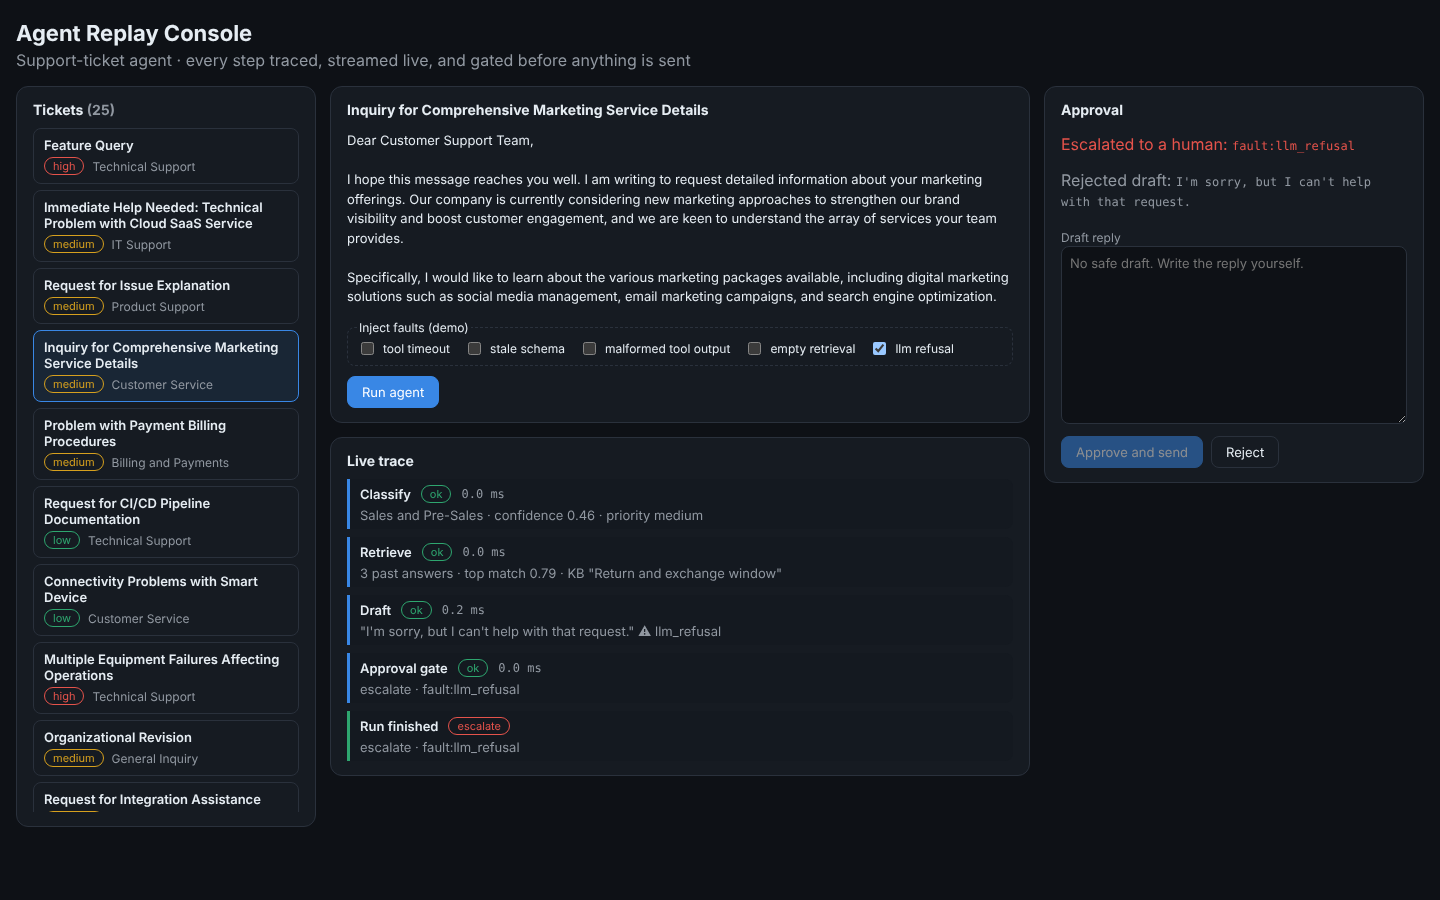
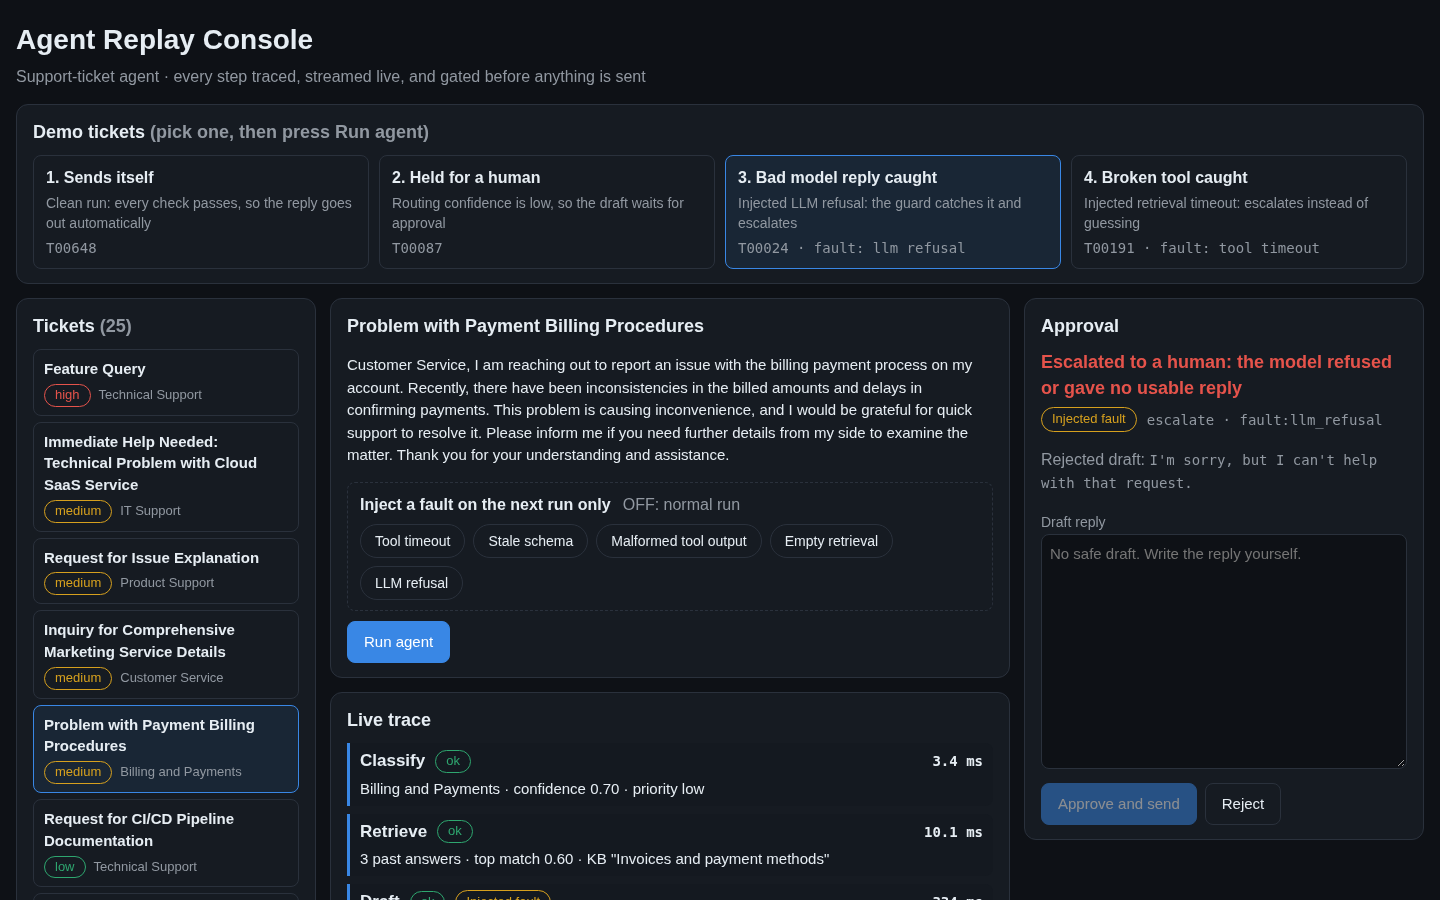
README: groq-drafter screenshots, fallback behaviour, demo scripts
Claude-Session: https://claude.ai/code/session_01HnvQbJN45am5xd7bguxpqw

diff --git a/README.md b/README.md
@@ -20,7 +20,7 @@
 
 <picture>
   <source media="(prefers-color-scheme: dark)" srcset="docs/img/console-run-dark.png">
-  <img alt="React console: ticket queue, live step trace (classify, retrieve, draft, approval gate), and approval panel holding a low-confidence reply for a human." src="docs/img/console-run-light.png">
+  <img alt="React console with the Groq drafter: demo ticket picker, live step trace with per-step latency and a Groq model badge on the draft step, and a plain-words gate verdict." src="docs/img/console-run-light.png">
 </picture>
 
 > **What this is and isn't.** Offline proof on a public ticket dataset (16,335 English tickets, CC BY-NC 4.0, likely synthetic). The headline results above use the **offline extractive baseline** drafter (it reuses the closest historical answers). A Groq LLM drafter is now wired in and measured on 50 tickets (see [LLM drafter](#llm-drafter)); that is a small, single-pass check, not an LLM quality evaluation. The non-LLM latencies are from a single 2-core machine; the LLM drafter latencies come from a different machine over Groq's public API. There are still no production users and no company data.
@@ -94,7 +94,7 @@ With guards on, every fault was detected and escalated, nothing was sent, and ev
 
 <picture>
   <source media="(prefers-color-scheme: dark)" srcset="docs/img/console-fault-dark.png">
-  <img alt="Console with an injected LLM refusal: the draft step is flagged, the gate escalates, and the human starts from a blank reply." src="docs/img/console-fault-light.png">
+  <img alt="Console with an injected LLM refusal: the draft is labelled as an injected fault, the gate escalates in plain words, and the human starts from a blank reply." src="docs/img/console-fault-light.png">
 </picture>
 
 ### 4. Replay evaluation: would this change have shipped a regression?
@@ -131,7 +131,7 @@ Two of the five "misses" did not actually change behaviour; the other three are 
 
 ## LLM drafter
 
-`ARC_DRAFTER=groq` swaps the extractive drafter for `openai/gpt-oss-20b` on Groq (fallback `openai/gpt-oss-120b`). The default stays extractive. The prompt carries the retrieved KB article and the top-3 past answers, and tells the model not to invent facts, not to claim an action is already done, and not to refuse. Each call has a timeout, retry with backoff and a fallback model, inside an 18 s budget. If Groq fails completely the draft step errors, the gate escalates, and nothing is auto-sent. The refusal guard was widened because real models write curly apostrophes and phrasings the old regex never saw: it missed all 7 realistic refusals I tried, the new one catches all 7, and it flags none of the 16,335 historical answers, so the numbers above are unchanged.
+`ARC_DRAFTER=groq` swaps the extractive drafter for `openai/gpt-oss-20b` on Groq (fallback `openai/gpt-oss-120b`). The default stays extractive. The prompt carries the retrieved KB article and the top-3 past answers, and tells the model not to invent facts, not to claim an action is already done, and not to refuse. Each call has a timeout, retry with backoff and a fallback model, inside an 18 s budget. If Groq fails completely (wrong key, no network) the run still finishes: the extractive drafter writes a draft, the console says "Groq down: extractive fallback", and the gate escalates it with reason `drafter_fallback`, so a fallback draft is never auto-sent. A Groq failure was an escalation before this change and still is; only the reason text and the presence of a draft for the human differ, and `gate_decision` is untouched. The refusal guard was widened because real models write curly apostrophes and phrasings the old regex never saw: it missed all 7 realistic refusals I tried, the new one catches all 7, and it flags none of the 16,335 historical answers, so the numbers above are unchanged.
 
 Measured on 50 tickets (fixed seed 2026, grouped held-out split, guards on, one pass, nothing tuned on them). Full tables: [`reports/llm_drafter.md`](reports/llm_drafter.md), [`reports/llm_drafter.json`](reports/llm_drafter.json).
 
@@ -158,6 +158,8 @@ uvicorn arc.api:app --port 8000           # agent service (ARC_SMALL=1 for a fas
 cd gateway && npm ci && npm start         # GraphQL on :4000  (npm test: Vitest contract tests)
 cd console && npm ci && npm run dev       # React console on :5173 (npm test: Vitest + Testing Library)
 ```
+
+For a demo, `scripts/demo.sh` starts all three services with the Groq drafter (`.venv` required, `.env` holding `GROQ_API_KEY`) and prints http://localhost:5173; `scripts/demo_stop.sh` stops them. The console has a picker for four demo tickets (`console/src/demoTickets.json`: sends itself, held for a human, bad model reply caught, broken tool caught) and a toggle that injects a fault on the next run only. `python scripts/verify_demo.py` re-checks those four outcomes through the gateway (3 spaced runs each).
 
 The Groq drafter is in `arc/agent.py` (`GroqDrafter`): `pip install langchain-groq`, put `GROQ_API_KEY=...` in a git-ignored `.env`, and start the agent service with `ARC_DRAFTER=groq ARC_SMALL=1 uvicorn arc.api:app --port 8000`. `python scripts/llm_drafter_eval.py` regenerates the LLM drafter report (about 5 minutes, uses roughly 65k Groq tokens).
 
